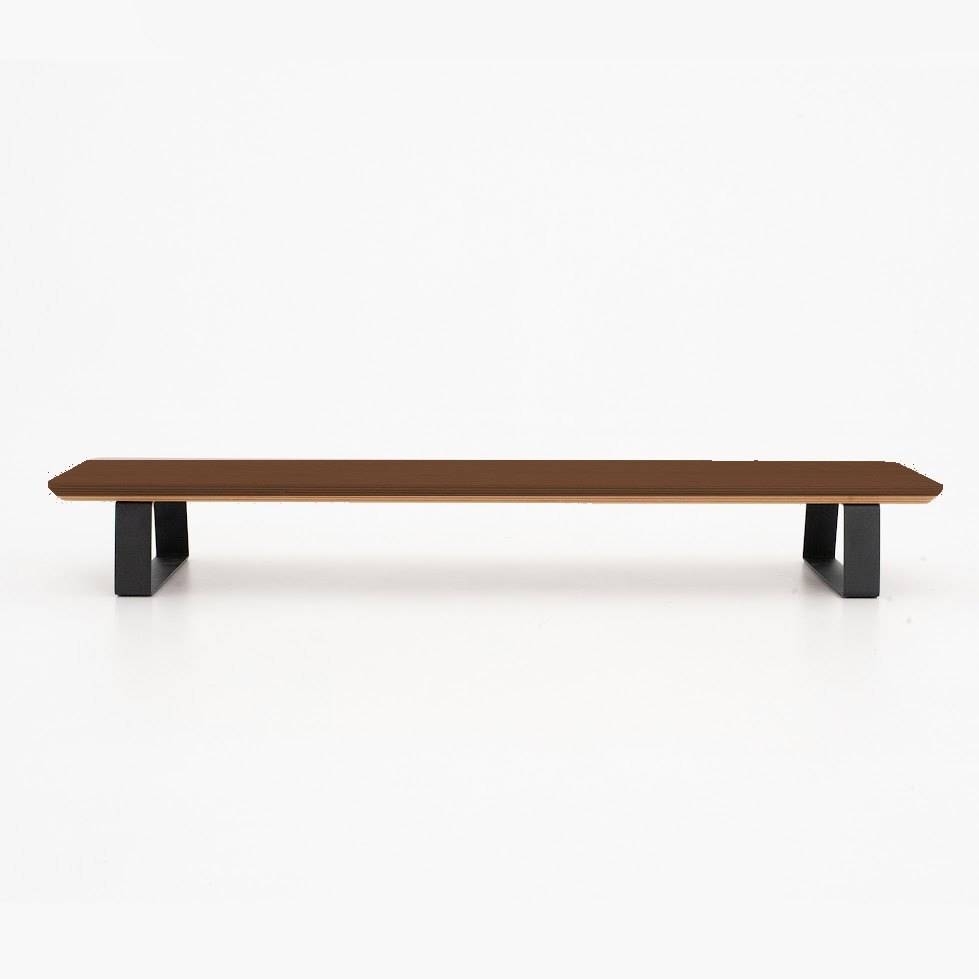
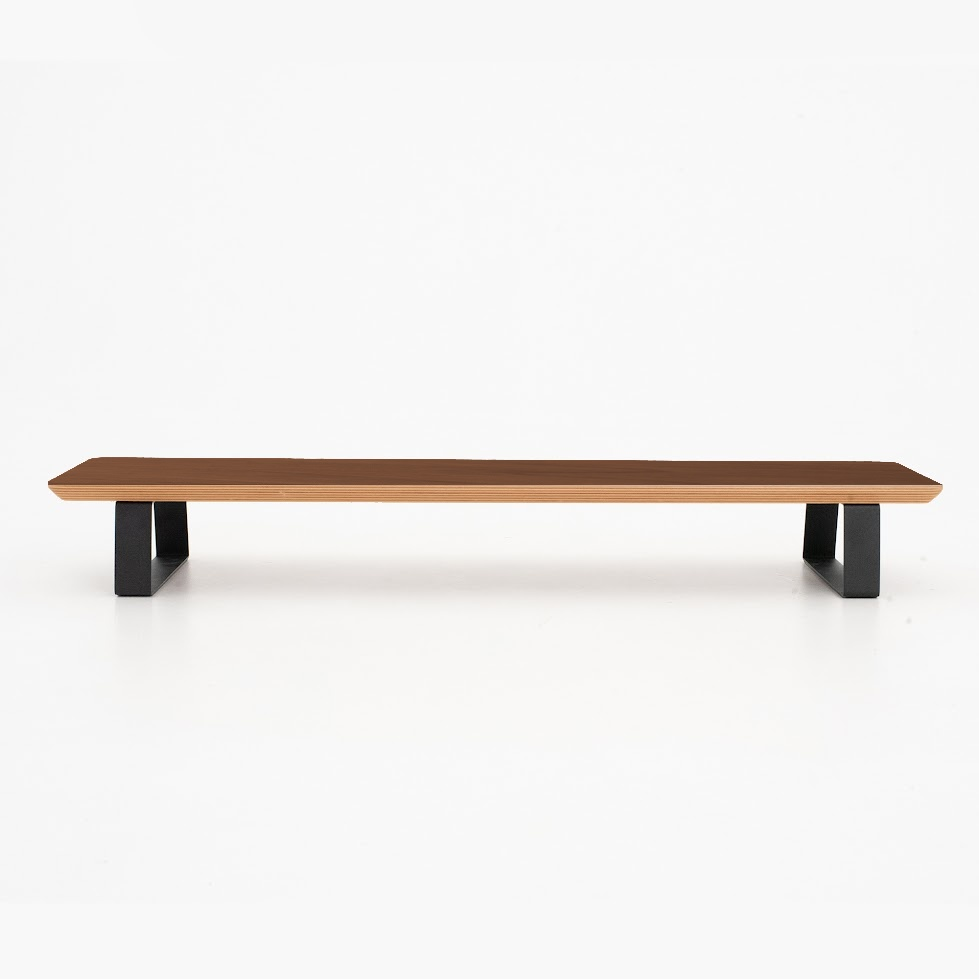
fix(catalog): restore isolated studio photo for Focus Station Walnut matching Oak and Black

Changed region(s): [[0.0306, 0.4597, 0.9806, 0.5209]]

diff --git a/podstavki-pod-monitor.html b/podstavki-pod-monitor.html
@@ -83,7 +83,7 @@
               "name": "Focus Station Walnut (Американский орех)",
               "description": "Подставка под монитор из благородного американского ореха с модульной направляющей T-Track. Размеры 85x9x23 см и 116x9x23 см.",
               "url": "https://geeknook.ru/tproduct/777379134633-focus-station-walnut",
-              "image": "https://geeknook.ru/images/tild3863-6135-4434-b961-646561306333__noroot.png",
+              "image": "https://geeknook.ru/images/focus-station-walnut-studio.jpg",
               "brand": { "@type": "Brand", "name": "GeekNook" },
               "offers": {
                 "@type": "AggregateOffer",
@@ -1033,7 +1033,7 @@
         <div class="card-img-wrap">
           <span class="card-badge">Американский орех</span>
           <span class="card-discount-tag">−20%</span>
-          <img src="images/tild3863-6135-4434-b961-646561306333__noroot.png" alt="Деревянная подставка под монитор Focus Station Walnut" loading="lazy" decoding="async">
+          <img src="images/focus-station-walnut-studio.jpg" alt="Деревянная подставка под монитор Focus Station Walnut" loading="lazy" decoding="async">
         </div>
         <div class="card-info">
           <h3 class="card-title">Focus Station Walnut</h3>

diff --git a/js/modern-app.min.js b/js/modern-app.min.js
@@ -1300,7 +1300,11 @@
     const oldPriceHtml = p.oldPrice ? `<span class="old-price">${formatPrice(p.oldPrice)}</span>` : '';
     const materialTag = p.materials ? p.materials.split(',')[0].trim() : 'Инженерный массив';
     const hasHoverImg = p.images && p.images.length > 1;
-    const mainImg = toAssetUrl(p.images && p.images[0] ? p.images[0] : (p.image || ''));
+    let rawMainImg = p.images && p.images[0] ? p.images[0] : (p.image || '');
+    if (p.id === 'focus-station-walnut') {
+      rawMainImg = 'images/focus-station-walnut-studio.jpg';
+    }
+    const mainImg = toAssetUrl(rawMainImg);
     const hoverImg = hasHoverImg ? toAssetUrl(p.images[1]) : '';
     const isFocusStation = p.id.includes('focus-station') || p.id.startsWith('board-') || Boolean(p.options && p.options.lengths);
     const xrayBtnHtml = isFocusStation ? `

diff --git a/js/modern-app.js b/js/modern-app.js
@@ -1479,7 +1479,11 @@
     const oldPriceHtml = p.oldPrice ? `<span class="old-price">${formatPrice(p.oldPrice)}</span>` : '';
     const materialTag = p.materials ? p.materials.split(',')[0].trim() : 'Инженерный массив';
     const hasHoverImg = p.images && p.images.length > 1;
-    const mainImg = toAssetUrl(p.images && p.images[0] ? p.images[0] : (p.image || ''));
+    let rawMainImg = p.images && p.images[0] ? p.images[0] : (p.image || '');
+    if (p.id === 'focus-station-walnut') {
+      rawMainImg = 'images/focus-station-walnut-studio.jpg';
+    }
+    const mainImg = toAssetUrl(rawMainImg);
     const hoverImg = hasHoverImg ? toAssetUrl(p.images[1]) : '';
     const isFocusStation = p.id.includes('focus-station') || p.id.startsWith('board-') || Boolean(p.options && p.options.lengths);
 

diff --git a/tilda-bundle/tilda-loader.html b/tilda-bundle/tilda-loader.html
@@ -118,7 +118,10 @@
     if (!img) return;
     const rawSrc = img.getAttribute('src') || '';
     const propSrc = img.src || '';
-    const srcToCheck = rawSrc || propSrc;
+    let srcToCheck = rawSrc || propSrc;
+    if (img.classList && img.classList.contains('card-img-main') && ((img.alt && img.alt.includes('Walnut')) || (img.closest && img.closest('#focus-station-walnut')))) {
+      srcToCheck = 'images/focus-station-walnut-studio.jpg';
+    }
     if (srcToCheck.includes('images/') && !srcToCheck.includes('github.io')) {
       const clean = srcToCheck.substring(srcToCheck.indexOf('images/')).replace(/^\.?\//, '');
       const newUrl = BASE_URL + clean;
